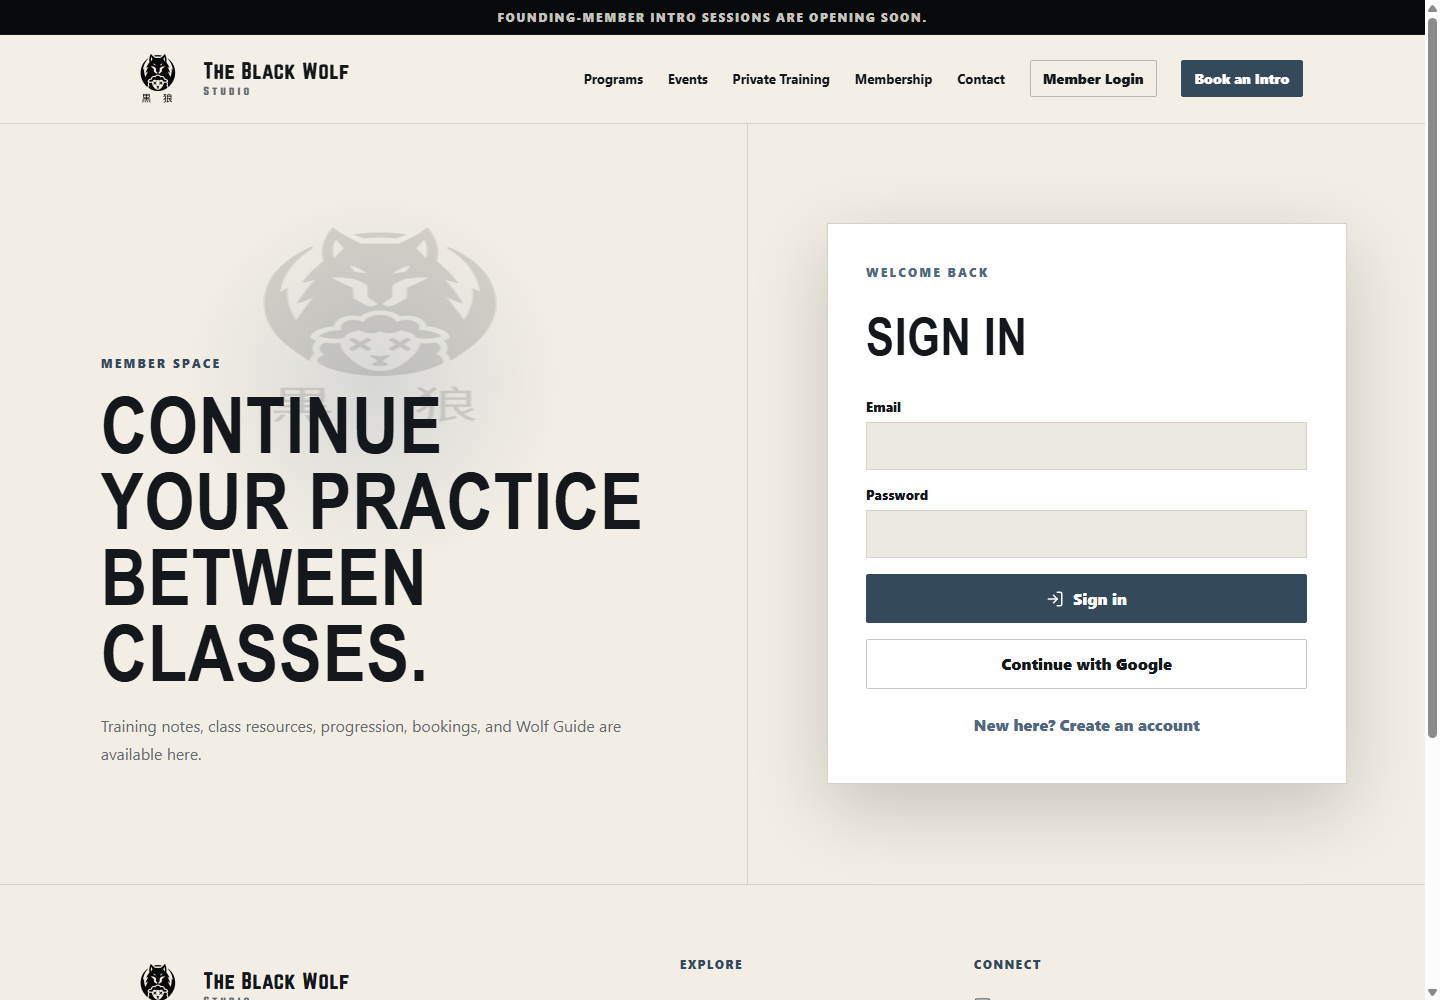
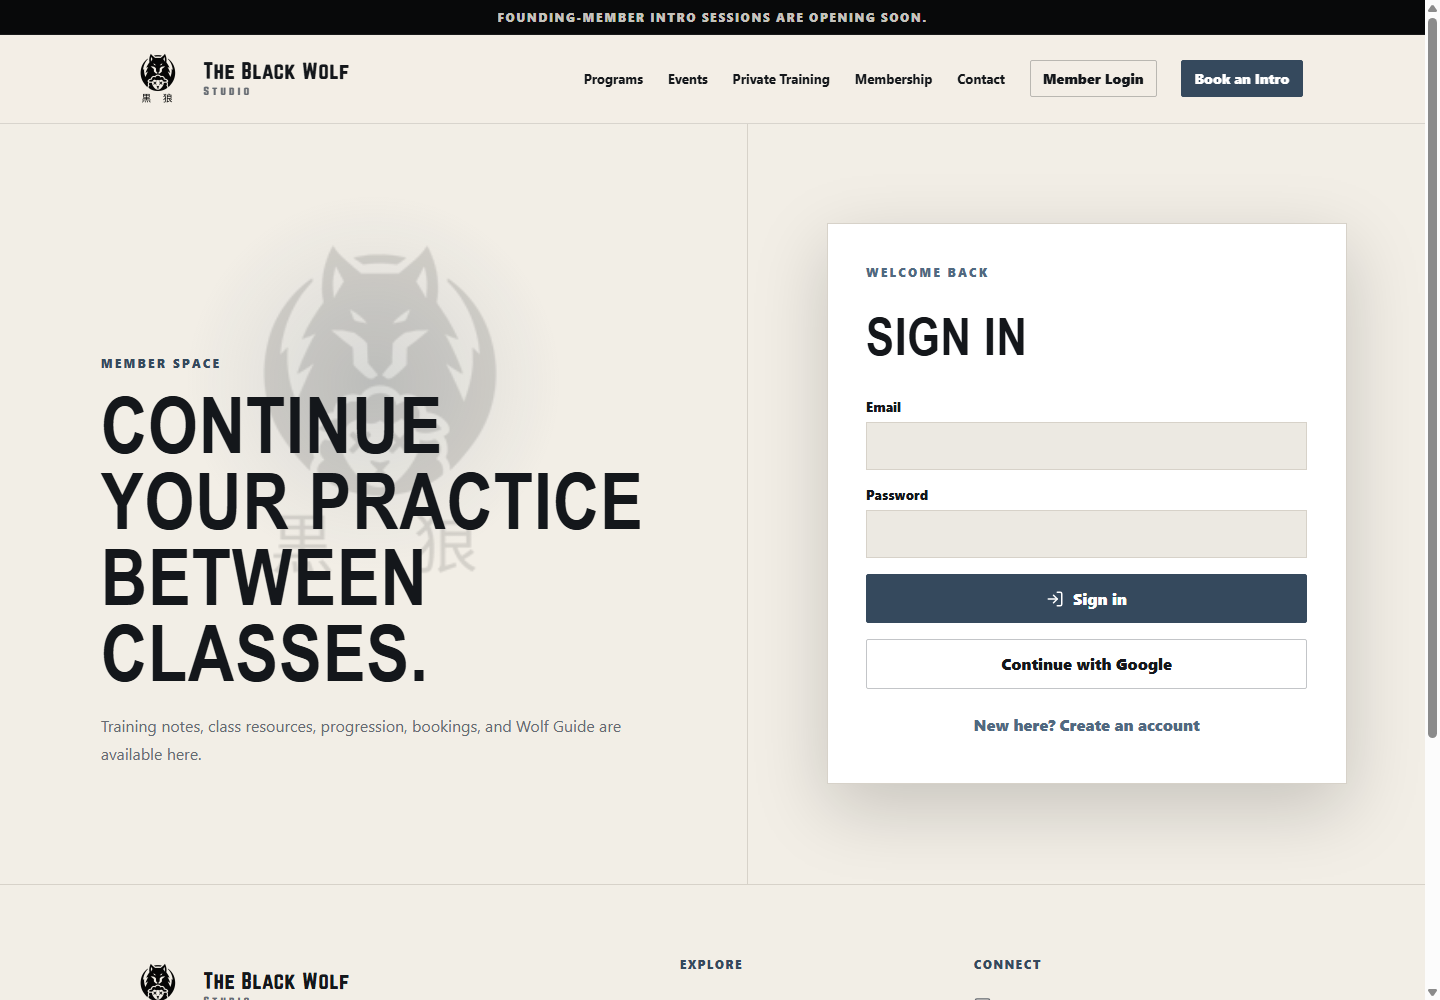
Add branded Wolf Guide mark and refresh quality artifacts

Changed region(s): [[0.1875, 0.217, 0.3438, 0.496], [0.2812, 0.527, 0.3438, 0.558], [0.1875, 0.527, 0.2188, 0.558]]

diff --git a/src/components/wolf-guide/WolfGuideWidget.jsx b/src/components/wolf-guide/WolfGuideWidget.jsx
@@ -7,7 +7,6 @@ import {
     RotateCcw,
     Send,
     Shield,
-    Sparkles,
     Trash2,
     X,
 } from 'lucide-react';
@@ -24,6 +23,7 @@ import { useAuth } from '../../context/AuthContext';
 import { useWolfGuideState } from '../../context/WolfGuideContext';
 import useMembership from '../../hooks/useMembership';
 import { sendWolfGuideMessage } from '../../services/wolfGuide';
+import WolfGuideMark from './WolfGuideMark';
 
 const prompts = [
     { icon: HeartPulse, label: 'Help me settle before class' },
@@ -393,7 +393,7 @@ export default function WolfGuideWidget({ suspended = false }) {
                 <header className="wolf-guide-dialog__header">
                     <div>
                         <span className="wolf-guide-dialog__mark" aria-hidden="true">
-                            <Sparkles size={19} />
+                            <WolfGuideMark />
                         </span>
                         <div>
                             <p>Member companion</p>
@@ -451,7 +451,12 @@ export default function WolfGuideWidget({ suspended = false }) {
                 onClick={() => setOpen((current) => !current)}
             >
                 <span className="wolf-guide-launcher__icon" aria-hidden="true">
-                    {canUseWolfGuide ? <Sparkles size={21} /> : <LockKeyhole size={20} />}
+                    <WolfGuideMark />
+                    {!canUseWolfGuide && (
+                        <span className="wolf-guide-launcher__lock">
+                            <LockKeyhole size={12} />
+                        </span>
+                    )}
                 </span>
                 <span>
                     <strong>Wolf Guide</strong>

diff --git a/src/pages/HomePage.jsx b/src/pages/HomePage.jsx
@@ -4,11 +4,11 @@ import {
     CirclePlay,
     HeartPulse,
     ShieldCheck,
-    Sparkles,
 } from 'lucide-react';
 import { Link } from 'react-router-dom';
 import ProgramCard from '../components/ProgramCard';
 import SectionHeading from '../components/SectionHeading';
+import WolfGuideMark from '../components/wolf-guide/WolfGuideMark';
 import { memberships, principles, programs, wolfGuidePrompts } from '../data/siteContent';
 
 export default function HomePage() {
@@ -141,7 +141,10 @@ export default function HomePage() {
             <section className="section wolf-guide-section">
                 <div className="container wolf-guide-grid">
                     <div className="wolf-guide-visual">
-                        <div className="guide-orb"><Sparkles /><span>Wolf Guide</span></div>
+                        <div className="guide-orb">
+                            <WolfGuideMark />
+                            <span>Wolf Guide</span>
+                        </div>
                         <div className="guide-chat">
                             <p>What would support you right now?</p>
                             {wolfGuidePrompts.map(({ label, icon: Icon }) => (

diff --git a/src/styles/wolf-guide-widget.css b/src/styles/wolf-guide-widget.css
@@ -40,19 +40,42 @@
 }
 
 .wolf-guide-launcher__icon {
+  position: relative;
   display: grid;
   flex: 0 0 auto;
   width: 2.45rem;
   height: 2.45rem;
   place-items: center;
-  color: #16181c;
-  background: #e2c578;
+  overflow: hidden;
+  background: #fff;
+  border: 1px solid rgba(255, 255, 255, .45);
   border-radius: .78rem;
 }
 
 .wolf-guide-launcher.is-locked .wolf-guide-launcher__icon {
+  opacity: .76;
+}
+
+.wolf-guide-launcher__lock {
+  position: absolute;
+  right: -.02rem;
+  bottom: -.02rem;
+  display: grid;
+  width: 1.05rem;
+  height: 1.05rem;
+  place-items: center;
   color: #fff;
-  background: rgba(255, 255, 255, .13);
+  background: #17191d;
+  border: 1px solid #fff;
+  border-radius: 50%;
+}
+
+.wolf-guide-mark {
+  display: block;
+  width: 100%;
+  height: 100%;
+  object-fit: contain;
+  background: #fff;
 }
 
 .wolf-guide-launcher > span:last-child {
@@ -126,8 +149,9 @@
   width: 2.2rem;
   height: 2.2rem;
   place-items: center;
-  color: #15171b;
-  background: #e2c578;
+  overflow: hidden;
+  background: #fff;
+  border: 1px solid rgba(255, 255, 255, .42);
   border-radius: .68rem;
 }
 

diff --git a/src/styles/global.css b/src/styles/global.css
@@ -953,9 +953,11 @@ p {
     box-shadow: 0 0 80px rgba(93,115,139,.26);
 }
 
-    .guide-orb svg {
-        width: 42px;
-        height: 42px;
+    .guide-orb .wolf-guide-mark {
+        width: 78px;
+        height: 78px;
+        border-radius: 22px;
+        box-shadow: 0 12px 30px rgba(0, 0, 0, .24);
     }
 
     .guide-orb span {
@@ -1324,6 +1326,9 @@ textarea {
         top: 10%;
         left: 50%;
         width: min(430px, 70%);
+        height: auto;
+        aspect-ratio: 1;
+        object-fit: contain;
         opacity: .12;
         filter: none;
         transform: translateX(-50%);

diff --git a/src/components/wolf-guide/WolfGuideMark.jsx b/src/components/wolf-guide/WolfGuideMark.jsx
@@ -1,0 +1,12 @@
+export default function WolfGuideMark({ className = '' }) {
+    return (
+        <img
+            className={`wolf-guide-mark${className ? ` ${className}` : ''}`}
+            src="/images/wolf-guide-mark.webp"
+            alt=""
+            width="256"
+            height="256"
+            decoding="async"
+        />
+    );
+}

diff --git a/quality/quality-gate-report.md b/quality/quality-gate-report.md
@@ -1,6 +1,6 @@
 # Black Wolf Studio quality gate
 
-Generated: 2026-07-24T21:40:21.684Z
+Generated: 2026-07-25T12:02:22.313Z
 
 Result: PASS
 
@@ -12,9 +12,9 @@ Result: PASS
 
 ## Notes
 - Route audit found 38 explicit route patterns.
-- JSX audit: 84 files, 0 missing alt, 0 unsafe blank links, 0 implicit buttons.
+- JSX audit: 85 files, 0 missing alt, 0 unsafe blank links, 0 implicit buttons.
 - CSS audit: 20 files, 0 very-small text rules, 36 !important rules.
 - Norwester font verified at public/fonts/norwester.otf.
-- Public asset audit checked 5 files.
-- Build audit: 67 JS chunks, 1 CSS chunks, total JS gzip 400.9 KB, total CSS gzip 35.6 KB.
+- Public asset audit checked 6 files.
+- Build audit: 67 JS chunks, 1 CSS chunks, total JS gzip 401.0 KB, total CSS gzip 35.7 KB.
 - Largest JS chunk: dist/assets/firebase-vendor-Dx1OEw-G.js (584.2 KB, 170.9 KB gzip).
